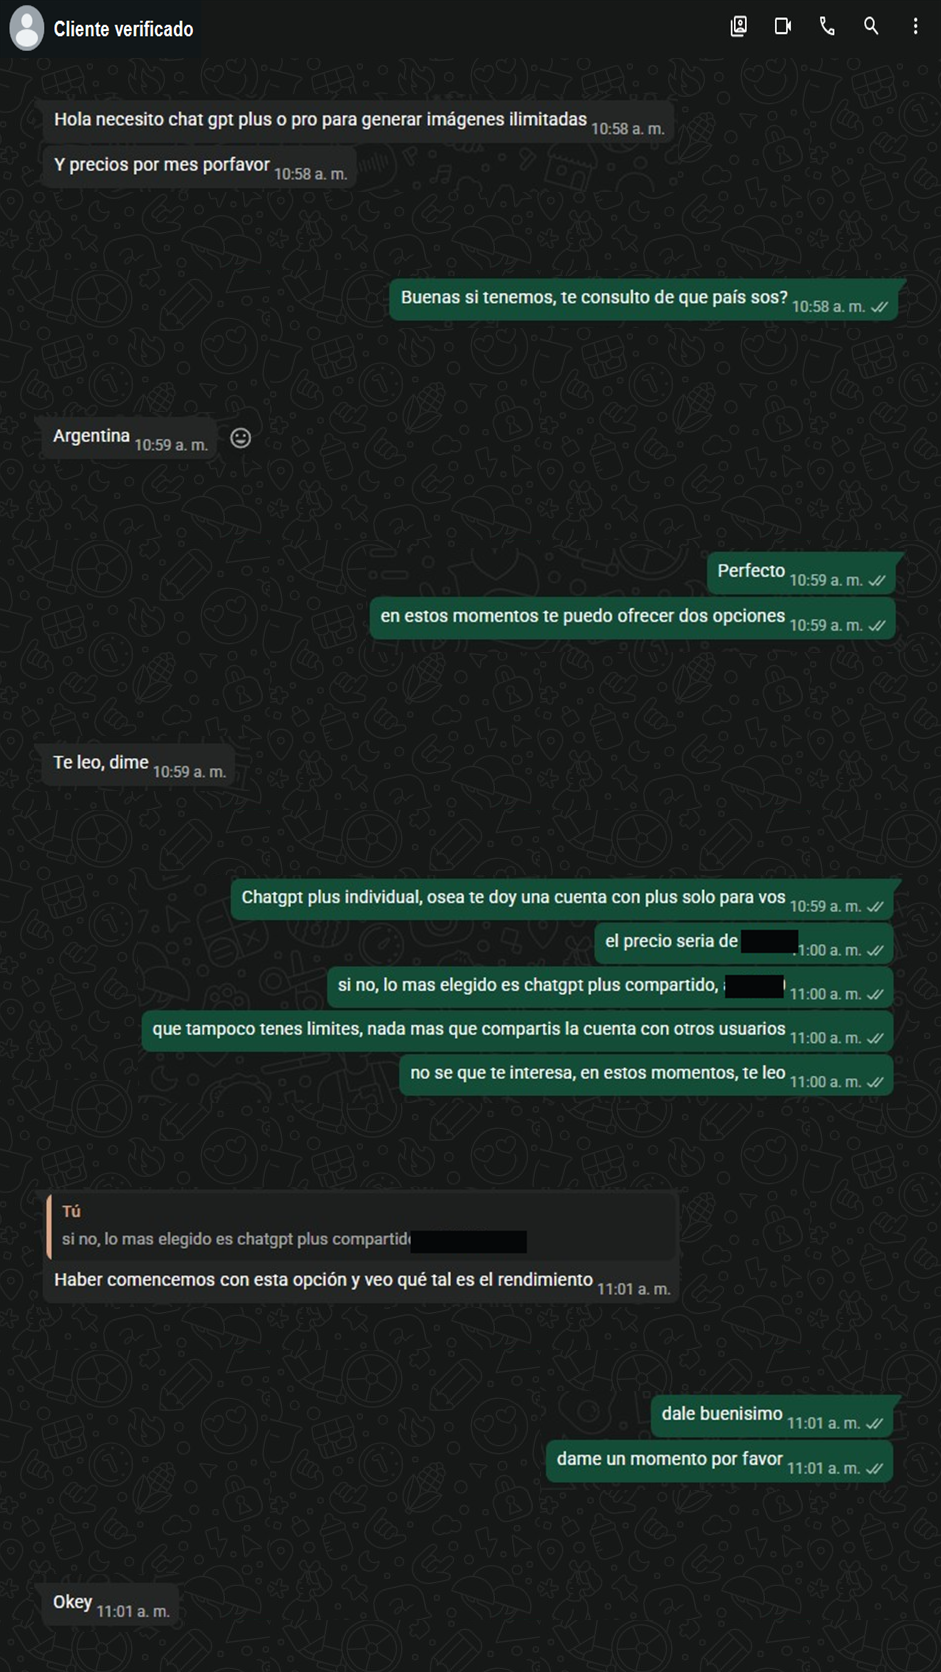
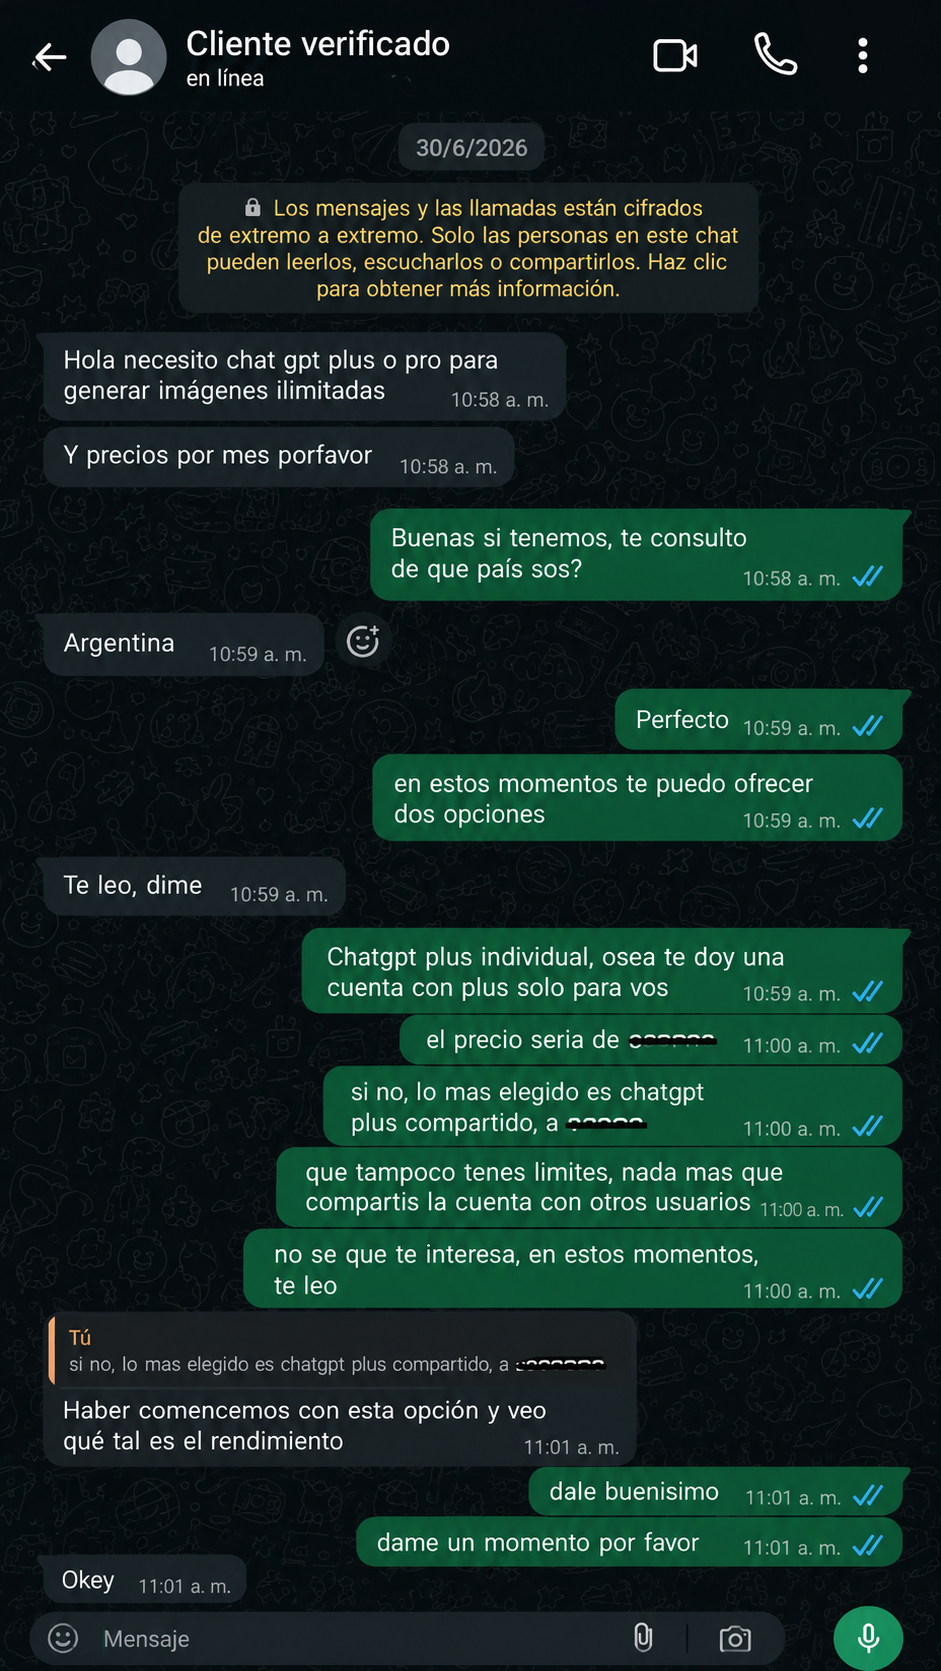
Actualiza las cards de testimonios dos y tres

diff --git a/frontend/web/data/client-conversations.ts b/frontend/web/data/client-conversations.ts
@@ -3,6 +3,7 @@ export type ClientConversationScreenshot = {
   alt: string;
   width: number;
   height: number;
+  fit?: "contain" | "cover";
 };
 
 export type ClientConversation = {
@@ -43,23 +44,32 @@ export const clientConversations: ClientConversation[] = [
         src: "/testimonials/cliente-02/01.png",
         alt: "Conversación anonimizada con la consulta inicial sobre opciones de ChatGPT Plus",
         width: 941,
-        height: 1672,
+        height: 1671,
       },
       {
         src: "/testimonials/cliente-02/02.png",
         alt: "Conversación anonimizada con la elección del plan y el acceso a la cuenta",
-        width: 941,
-        height: 1672,
+        width: 853,
+        height: 1844,
+        fit: "cover",
       },
       {
         src: "/testimonials/cliente-02/03.png",
         alt: "Conversación anonimizada con la coordinación y confirmación del pago",
-        width: 941,
-        height: 1672,
+        width: 864,
+        height: 1821,
+        fit: "cover",
       },
+    ],
+  },
+  {
+    id: "cliente-03",
+    label: "Cliente 03",
+    verificationLabel: "Cliente verificado",
+    screenshots: [
       {
-        src: "/testimonials/cliente-02/04.png",
-        alt: "Conversación anonimizada con la entrega de la guía y el cierre de la compra",
+        src: "/testimonials/cliente-03/01.png",
+        alt: "Conversación anonimizada con la entrega del acceso y la confirmación de la transferencia",
         width: 941,
         height: 1672,
       },

diff --git a/frontend/web/components/client-conversation-card.tsx b/frontend/web/components/client-conversation-card.tsx
@@ -84,7 +84,7 @@ export function ClientConversationCard({ conversation }: { conversation: ClientC
                   alt={screenshot.alt}
                   fill
                   sizes="(min-width: 768px) 33vw, 100vw"
-                  className="select-none object-contain"
+                  className={`select-none ${screenshot.fit === "cover" ? "object-cover" : "object-contain"}`}
                   draggable={false}
                 />
               </div>
